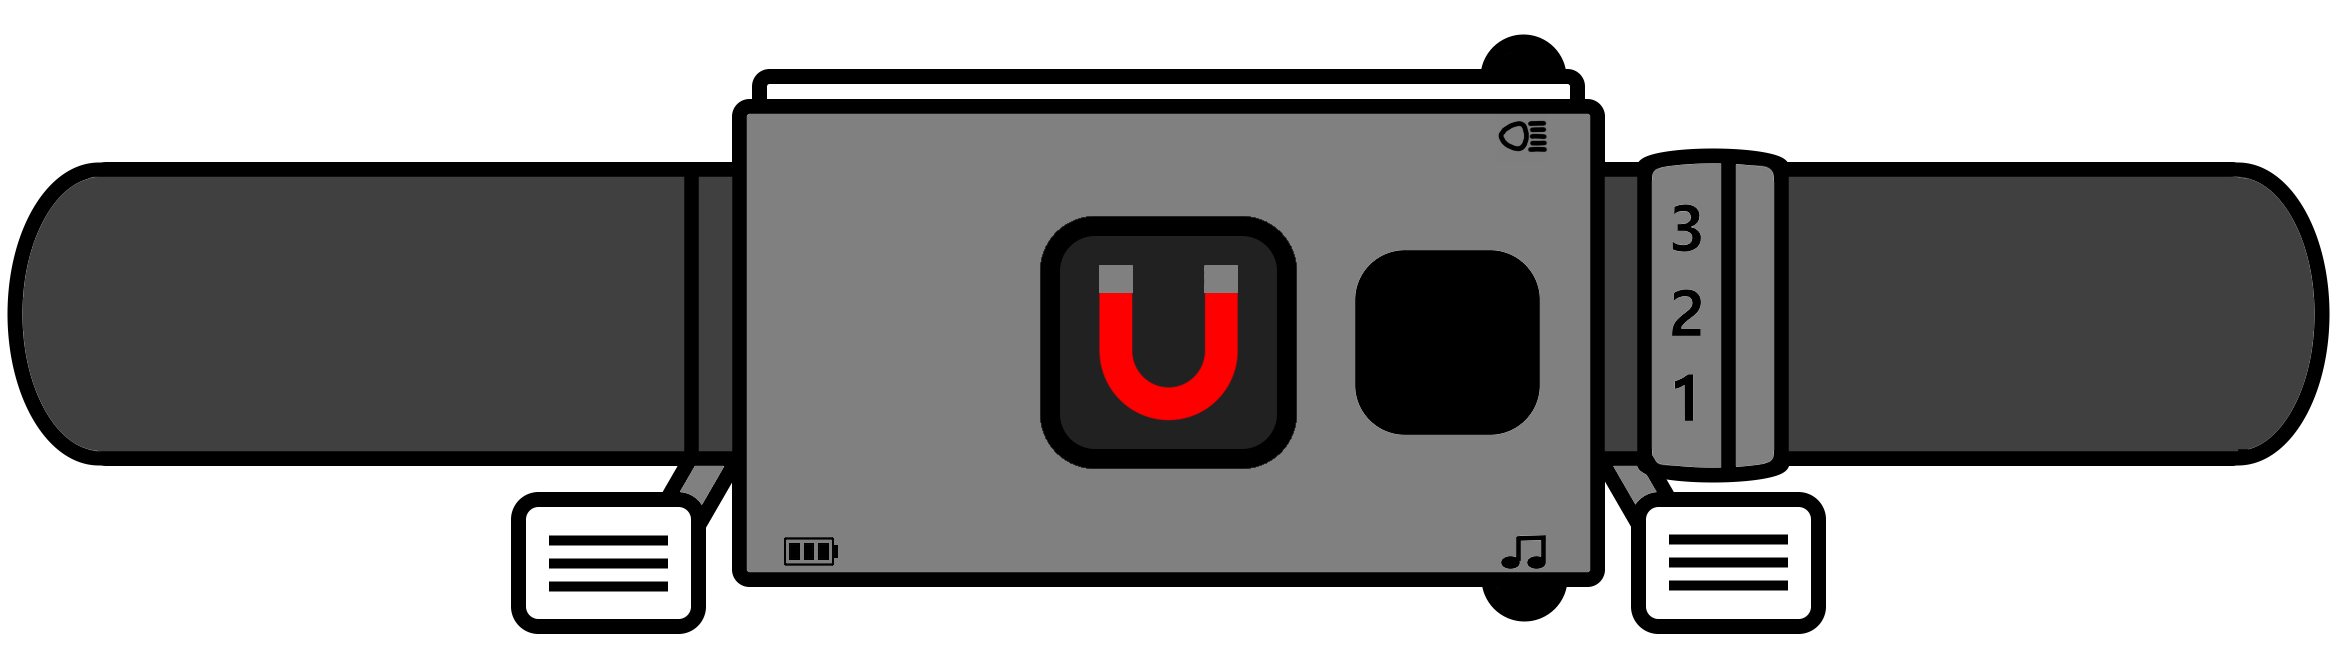
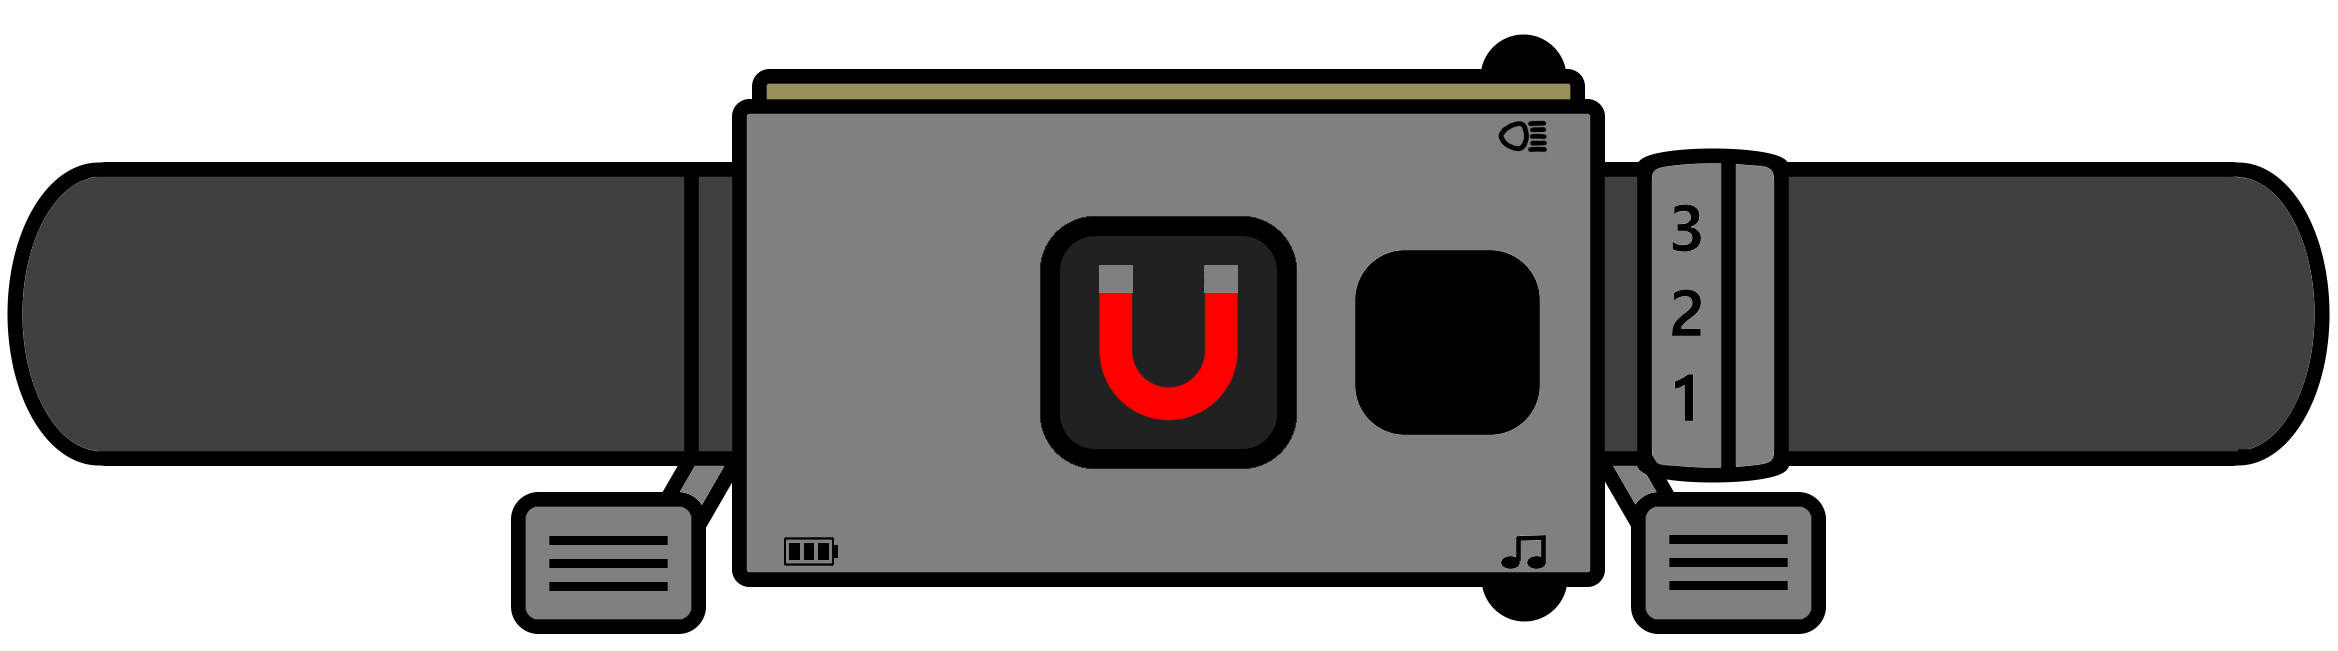
Improved segmented bike ui

Changed region(s): [[0.6869, 0.768, 0.7806, 0.9524], [0.2186, 0.768, 0.3122, 0.9524], [0.3122, 0.1229, 0.6869, 0.1536]]

diff --git a/src/BikeHorizontal.css b/src/BikeHorizontal.css
@@ -1,8 +1,8 @@
 /* BikeHorizontal.css */
 
 .bike-horizontal {
-  width: 1400px;
-  height: 389px;
+  width: 2338px;
+  height: 651px;
   overflow: hidden;
   margin: auto;
   position: relative;
@@ -12,58 +12,113 @@
 .bike-static-ui {
   position: absolute;
   top: 0px; /* Adjust the top position as needed */
-  left: 0px; /* Adjust the left position as needed */
-  width: 1400px; /* Adjust the width as needed */
-  height: 389px; /* Adjust the height as needed */
-  background-image: url('assets/bike_ui.png');
-  background-size: 1400px 389px; /* Ensure the image covers the entire rectangle */
-  background-position: 0px 0px; /* Adjust the image offset using pixel values */
+  left: 150px; /* Adjust the left position as needed */
+  width: 2338px; /* Adjust the width as needed */
+  height: 651px; /* Adjust the height as needed */
+  background-image: url('assets/bike_ui_parts/main_body.png');
+  background-size: 65% 65%;
+  background-repeat: no-repeat;
 }
 
 /* Style for the bike static UI image */
 .bike-battery {
   position: absolute; /* Position the image absolutely within the container */
-  top: 0px; /* Adjust the top position as needed */
-  left: 0px; /* Adjust the left position as needed */
-  width: 1400px; /* Adjust the width as needed */
-  height: 389px; /* Adjust the height as needed */
-  background-image: url('assets/battery_3.png');
-  background-size: 1400px 389px; /* Ensure the image covers the entire rectangle */
-  background-position: 0px 0px; /* Adjust the image offset using pixel values */
-  
+  top: 381px; /* Adjust the top position as needed */
+  left: 656px; /* Adjust the left position as needed */
+  width: 62px; /* Adjust the width as needed */
+  height: 14px; /* Adjust the height as needed */
+  background-image: url('assets/bike_ui_parts/battery_3.png');
+  background-size: 65% 65%;
+  background-repeat: no-repeat;
 }
 
 /* Style for the bike static UI image */
 .bike-headlights {
   position: absolute; /* Position the image absolutely within the container */
-  top: 0px; /* Adjust the top position as needed */
-  left: 0px; /* Adjust the left position as needed */
-  width: 1400px; /* Adjust the width as needed */
-  height: 389px; /* Adjust the height as needed */
-  background-image: url('assets/led_bar_off.png');
-  background-size: 1400px 389px; /* Ensure the image covers the entire rectangle */
+  top: 45px; /* Adjust the top position as needed */
+  left: 639px; /* Adjust the left position as needed */
+  width: 833px; /* Adjust the width as needed */
+  height: 31px; /* Adjust the height as needed */
+  background-image: url('assets/bike_ui_parts/headlight.png');
+  background-size: 65% 65%;
+  background-repeat: no-repeat;
+}
+
+/* Style for the bike static UI image */
+.bike-headlights-button {
+  position: absolute; /* Position the image absolutely within the container */
+  top: 22px; /* Adjust the top position as needed */
+  left: 1110px; /* Adjust the left position as needed */
+  width: 85px; /* Adjust the width as needed */
+  height: 35px; /* Adjust the height as needed */
+  background-image: url('assets/bike_ui_parts/headlight_button.png');
+  background-size: 65% 65%;
+  background-repeat: no-repeat;
+}
+
+/* Style for the bike static UI image */
+.bike-music-button {
+  position: absolute; /* Position the image absolutely within the container */
+  top: 381px; /* Adjust the top position as needed */
+  left: 1110px; /* Adjust the left position as needed */
+  width: 85px; /* Adjust the width as needed */
+  height: 35px; /* Adjust the height as needed */
+  background-image: url('assets/bike_ui_parts/music_button.png');
+  background-size: 65% 65%;
+  background-repeat: no-repeat;
+}
+
+/* Style for the bike static UI image */
+.bike-gear-indicator {
+  position: absolute; /* Position the image absolutely within the container */
+  top: 195px; /* Adjust the top position as needed */
+  left: 1280px; /* Adjust the left position as needed */
+  width: 30px; /* Adjust the width as needed */
+  height: 30px; /* Adjust the height as needed */
+  background-image: url('assets/bike_ui_parts/gear_indicator.png');
+  background-size: 65% 65%;
+  background-repeat: no-repeat;
+}
+
+/* Style for the bike static UI image */
+.bike-speedometer {
+  position: absolute; /* Position the image absolutely within the container */
+  top: 185px; /* Adjust the top position as needed */
+  left: 1068px; /* Adjust the left position as needed */
+  width: 73px; /* Adjust the width as needed */
+  height: 120px; /* Adjust the height as needed */
+  background-image: url('assets/bike_ui_parts/zero.png');
+  background-size: 65% 65%;
+  background-repeat: no-repeat;
 }
 
 /* Style for the bike static UI image */
 .bike-brakes {
   position: absolute; /* Position the image absolutely within the container */
-  top: -22px; /* Adjust the top position as needed */
-  left: 0px; /* Adjust the left position as needed */
-  width: 1400px; /* Adjust the width as needed */
-  height: 400px; /* Adjust the height as needed */
-  background-image: url('assets/brakes_unpressed.png');
-  background-size: 1400px 420px; /* Ensure the image covers the entire rectangle */
-  background-position: 0px 0px; /* Adjust the image offset using pixel values */
+  top: 303px; /* Adjust the top position as needed */
+  left: 482px; /* Adjust the left position as needed */
+  width: 221px; /* Adjust the width as needed */
+  height: 168px; /* Adjust the height as needed */
+  background-image: url('assets/bike_ui_parts/brakes.png');
+  background-size: 65% 65%;
+  background-repeat: no-repeat;
 }
 
 /* Style for the bike static UI image */
 .bike-accelerate {
   position: absolute; /* Position the image absolutely within the container */
-  top: -22px; /* Adjust the top position as needed */
-  left: 0px; /* Adjust the left position as needed */
-  width: 1400px; /* Adjust the width as needed */
-  height: 400px; /* Adjust the height as needed */
-  background-image: url('assets/accelerator_unpressed.png');
-  background-size: 1400px 420px; /* Ensure the image covers the entire rectangle */
-  background-position: 0px 0px; /* Adjust the image offset using pixel values */
+  top: 303px; /* Adjust the top position as needed */
+  left: 1193px; /* Adjust the left position as needed */
+  width: 221px; /* Adjust the width as needed */
+  height: 168px; /* Adjust the height as needed */
+  background-image: url('assets/bike_ui_parts/accelerate.png');
+  background-size: 65% 65%;
+  background-repeat: no-repeat;
+}
+
+/* Style for the bike accelerator when hovered */
+.bike-accelerate-hover {
+  /* Add your hover effect styles here */
+  opacity: 0.4; /* For example, reduce opacity to 80% on hover */
+  /* Add any other desired styles */
 }

diff --git a/src/BikeHorizontal.jsx b/src/BikeHorizontal.jsx
@@ -3,17 +3,78 @@
 import React from 'react';
 import './BikeHorizontal.css';
 
+let isMouseOverAccelerator = false;
+let isMouseDownAccelerator = false;
+
+function handleAcceleratorMouseEnter() {
+  isMouseOverAccelerator = true;
+  if (!isMouseDownAccelerator) {
+    // Apply hover effect here
+    const acceleratorButton = document.querySelector('.bike-accelerate-hover');
+    acceleratorButton.style.opacity = '0.85'; // Adjust the opacity as needed
+  }
+}
+
+function handleAcceleratorMouseLeave() {
+  isMouseOverAccelerator = false;
+  if (!isMouseDownAccelerator) {
+    // Remove hover effect here
+    const acceleratorButton = document.querySelector('.bike-accelerate-hover');
+    acceleratorButton.style.opacity = '1'; // Restore the original opacity
+  }
+}
+
+function handleAcceleratorMouseDown() {
+  isMouseDownAccelerator = true;
+  if (isMouseOverAccelerator) {
+    // While holding down and the mouse is over the button, apply the temporary opacity change
+    const acceleratorButton = document.querySelector('.bike-accelerate-hover');
+    acceleratorButton.style.opacity = '0.75'; // Adjust the opacity as needed
+    // Add any other desired styles here
+  }
+}
+
+function handleAcceleratorMouseUp() {
+  isMouseDownAccelerator = false;
+  if (isMouseOverAccelerator) {
+    // While holding down and the mouse is over the button, restore the original opacity
+    const acceleratorButton = document.querySelector('.bike-accelerate-hover');
+    acceleratorButton.style.opacity = '0.85'; // Restore the hover opacity
+    // Restore any other styles here
+  }
+}
+
+
+
 function BikeHorizontal() {
   return (
     <div className="bike-horizontal">
 
+      <div className="bike-static-ui"></div>
+
       <div className="bike-headlights"></div>
       <div className="bike-battery"></div>
       <div className="bike-headlights"></div>
+      <div className="bike-headlights-button"></div>
+      <div className="bike-music-button"></div>
       <div className="bike-brakes"></div>
-      <div className="bike-accelerate"></div>
+      <div className="bike-gear-indicator"></div>
+      <div className="bike-speedometer"></div>
+      <div
+        className="bike-accelerate bike-accelerate-hover"
+        onMouseEnter={handleAcceleratorMouseEnter}
+        onMouseLeave={handleAcceleratorMouseLeave}
+        onMouseDown={handleAcceleratorMouseDown}
+        onMouseUp={handleAcceleratorMouseUp}
+      ></div>
 
-      <div className="bike-static-ui"></div>
+
+      
+      
+
+      
+
+      
 
     </div>
   );

diff --git a/src/PhoneHorizontal.css b/src/PhoneHorizontal.css
@@ -54,7 +54,7 @@
   display: flex;
   justify-content: center;
   align-items: center;
-  font-size: 16px;
+  font-size: 20px;
   font-weight: bold;
   color: #333;
   position: sticky;
@@ -71,7 +71,7 @@
   display: flex;
   justify-content: center;
   align-items: center;
-  font-size: 16px;
+  font-size: 20px;
   font-weight: bold;
   color: #333;
   position: sticky;
@@ -88,7 +88,7 @@
   display: flex;
   justify-content: center;
   align-items: center;
-  font-size: 16px;
+  font-size: 20px;
   font-weight: bold;
   color: #333;
   position: sticky;
@@ -105,7 +105,7 @@
   display: flex;
   justify-content: center;
   align-items: center;
-  font-size: 16px;
+  font-size: 20px;
   font-weight: bold;
   color: #333;
   position: sticky;
